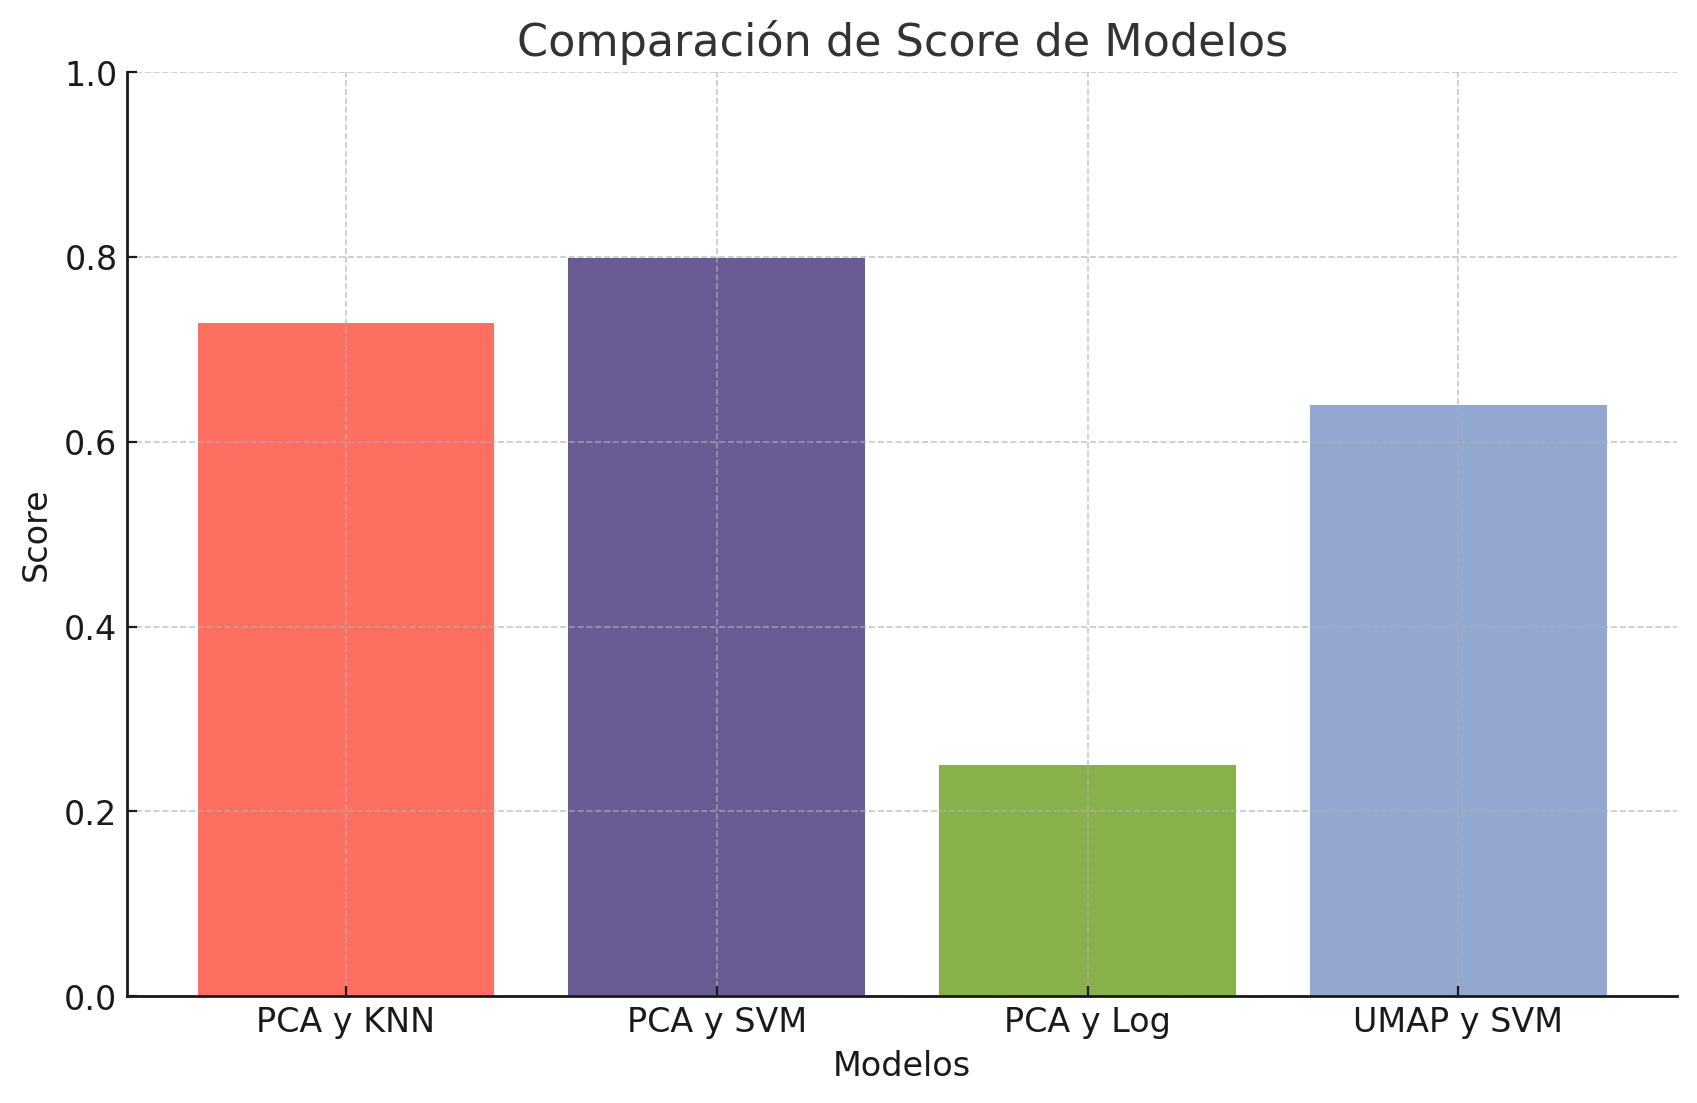
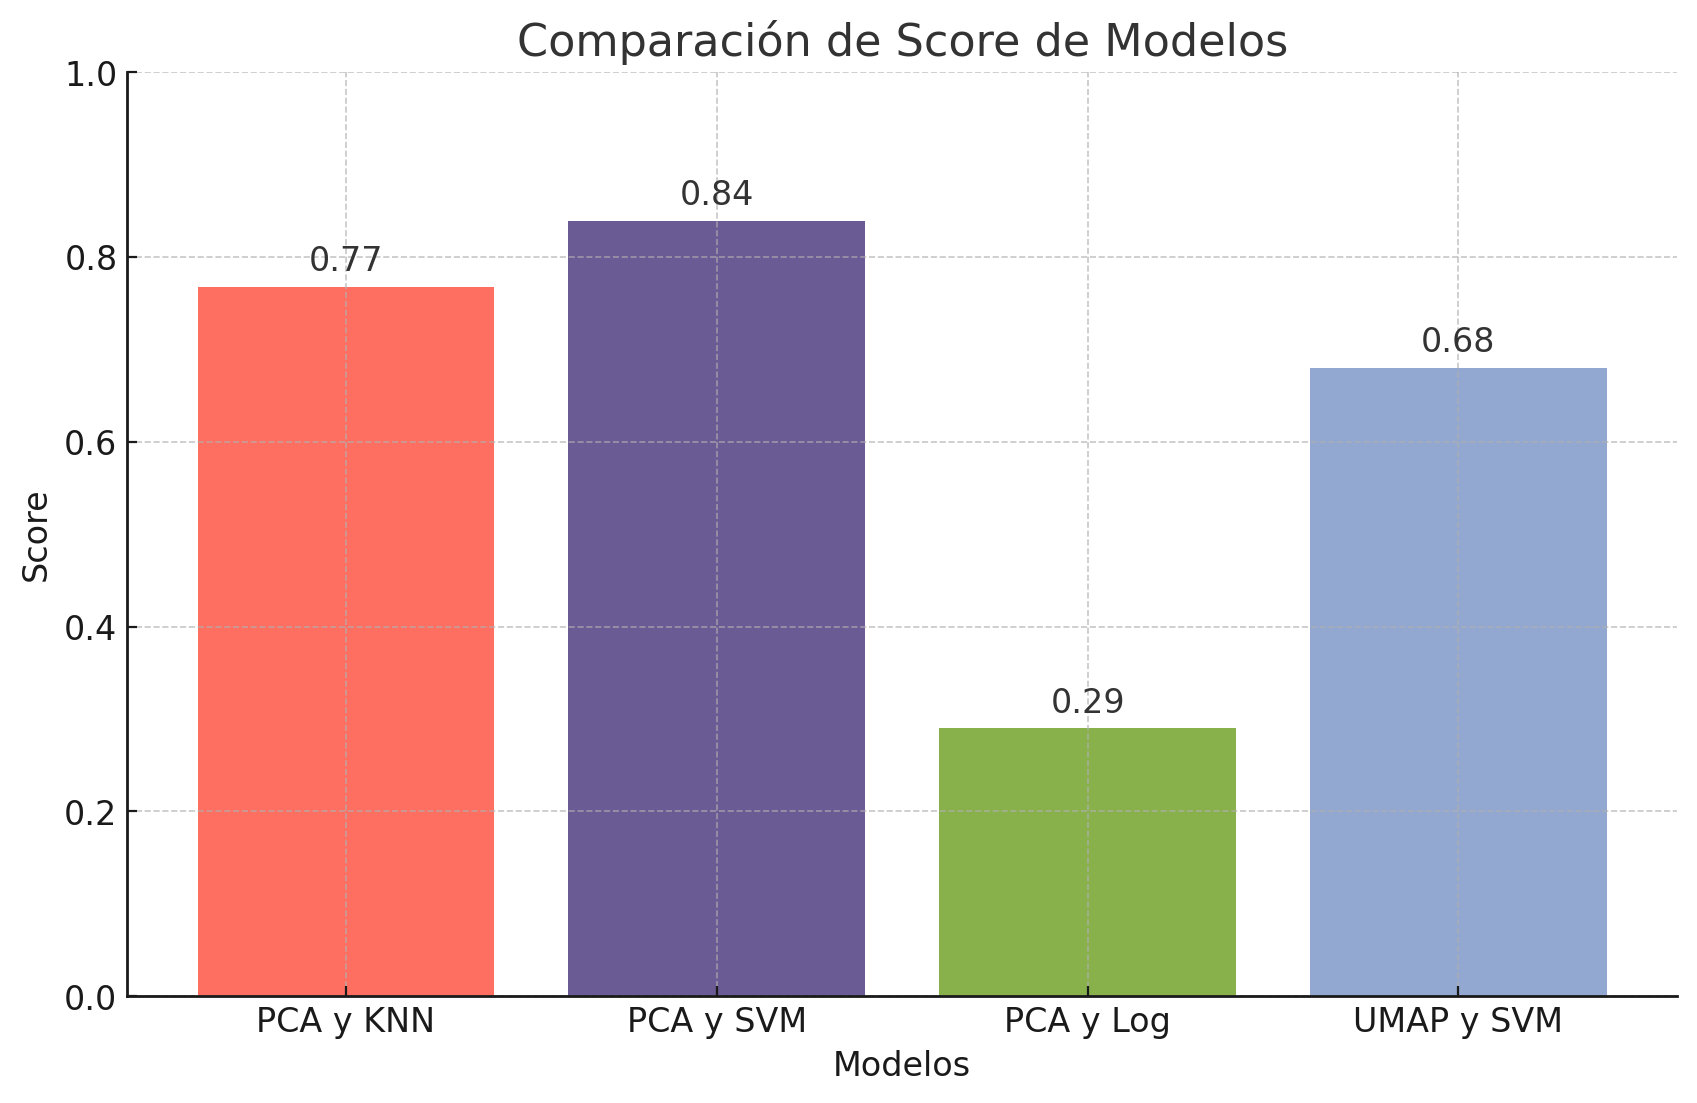
Agregar ejemplos y conclusiones

diff --git a/aprendiendo-machin/reports/avance_proyecto/avance_proyecto.tex b/aprendiendo-machin/reports/avance_proyecto/avance_proyecto.tex
@@ -288,7 +288,7 @@ Se realizó un GridSearch manual inspirado en la implementación de scikit-learn
 \end{itemize}
 \end{otherlanguage}
 
-Después de evaluar todos los resultados, la combinación de modelos con mejor resultado fue \textbf{PCA y SVM} con score de \textbf{0.80}.
+Después de evaluar todos los resultados, la combinación de modelos con mejor resultado fue \textbf{PCA y SVM} con score de \textbf{0.84}.
 
 tSNE fue excluido de la búsqueda por falta de recursos computacionales.
 
@@ -379,7 +379,7 @@ Se utilió SMOTE\cite{smote2023} para balancear el dataset. La tarea de Cross-Va
 
 \begin{figure}[H]
         \centering
-        \includegraphics[width=\linewidth]{figures/confusion_matrix_Training_wSMOTE.png}
+        \includegraphics[width=\linewidth]{figures/confusion_matrix_Training_postSMOTE.png}
         \caption{Matriz de confusión, Train dataset con SMOTE}
         \label{fig:confusion_matrix_post_smote}
 \end{figure}
@@ -388,15 +388,47 @@ El dataset Test muestra el mismo comportamiento, sin embargo no se aplicó SMOTE
 
 \begin{figure}[H]
         \centering
-        \includegraphics[width=\linewidth]{figures/confusion_matrix_Testing_wSMOTE.png}
+        \includegraphics[width=\linewidth]{figures/confusion_matrix_Testing_preSMOTE.png}
         \caption{Matriz de confusión, Test dataset}
         \label{fig:confusion_matrix_test}
+\end{figure}
+
+
+\subsubsection{Ejemplos de predicciones}
+En las siguientes figuras se muestran algunas predicciones, comparando la imagen y etiqueta original con la imagen pre-procesada y predicción final. Se escogieron algunos casos en los que la predicción fue incorrecta, se observa que la predicción, a pesar de ser errónea, predice un dígito con forma similar al correcto.
+
+\begin{figure}[H]
+        \centering
+        \includegraphics[width=\linewidth]{figures/pred_example_actual_8_pred_6.png}
+        \caption{Ejemplo predicción incorrecta}
+        \label{fig:Ejemplo1}
+\end{figure}
+
+\begin{figure}[H]
+        \centering
+        \includegraphics[width=\linewidth]{figures/pred_example_actual_7_pred_7.png}
+        \caption{Ejemplo predicción correcta}
+        \label{fig:Ejemplo2}
+\end{figure}
+
+\begin{figure}[H]
+        \centering
+        \includegraphics[width=\linewidth]{figures/pred_example_actual_0_pred_6.png}
+        \caption{Ejemplo predicción incorrecta}
+        \label{fig:Ejemplo3}
+\end{figure}
+
+\begin{figure}[H]
+        \centering
+        \includegraphics[width=\linewidth]{figures/pred_example_actual_1_pred_1.png}
+        \caption{Ejemplo predicción correcta}
+        \label{fig:Ejemplo4}
 \end{figure}
 
 \section{Conclusiones}
 
 \subsection{Preprocesamiento y Feature Engineering}
-Se propone una serie de pasos para transformar de distintas formas cada muestra del dataset. Visualmente y en varios ejemplos se observa cómo cada proceso modifica la información y podría permitir una extracción o representación más concisa del objetivo final. En los esfuerzos iniciales se consideró detección de contornos, pero esta transformación fue descartada porque impactaba negativamente el rendimiento. Se demuestra también el impacto de estos pasos de preprocesamiento, ya que el score con una simple conversión a escala de grises tiene un valor bajo (0.57 vs 0.79).
+Se propone una serie de pasos para transformar de distintas formas cada muestra del dataset. Visualmente y en varios ejemplos se observa cómo cada proceso modifica la información y podría permitir una extracción o representación más concisa del objetivo final. En los esfuerzos iniciales se consideró detección de contornos, pero esta transformación fue descartada porque impactaba negativamente el rendimiento. Se demuestra también el impacto de estos pasos de preprocesamiento, ya que el score con una simple conversión a escala de grises tiene un valor bajo (0.61 vs 0.84).
 
 \subsection{Reducción de dimensionalidad}
 Siguiendo el ejemplo con datasets como MNIST, se experimentó con modelos no supervisados que ayudan a reducir las dimensiones (PCA, UMAP, tSNE). A pesar de ser un problema similar para reconocimiento de dígitos, el dataset SVHN representa complicaciones por su variedad de colores, dígitos o elementos distractores además de inconsistencia entre el color o luminosidad del fondo y dígito.
@@ -413,14 +445,24 @@ La ventaja de PCA en este caso puede sugerir que existe una relación lineal ent
 Los rangos limitados de exploración se deben a una falta de recursos computacionales, se encontraron problemas con UMAP en dimensiones muy altas y tSNE en particular.
 
 \subsection{Entrenamiento, evaluación y métricas de desempeño}
-Se logra observar un score aceptable, \textbf{0.96} en training y \textbf{0.79} en testing. Esto sugiere que el modelo no está realizando overfitting total ni simplemente memorizando el dataset de entrenamiento, por lo que logra generalizar la relación entre los valores de los pixeles en la imagen y el dígito que se encuentra en el centro. Se reconoce que existen modelos más adecuados para reconocimiento de imagen con mucho mejor rendimiento, por ejemplo, redes neuronales. Sin embargo, estos modelos se encuentran fuera del enfoque de la clase, ya que se consideran de aprendizaje profundo.
+Se logra observar un score aceptable, \textbf{0.98} en training y \textbf{0.83} en testing. Esto sugiere que el modelo no está realizando overfitting total ni simplemente memorizando el dataset de entrenamiento, por lo que logra generalizar la relación entre los valores de los pixeles en la imagen y el dígito que se encuentra en el centro. Se reconoce que existen modelos más adecuados para reconocimiento de imagen con mucho mejor rendimiento, por ejemplo, redes neuronales. Sin embargo, estos modelos se encuentran fuera del enfoque de la clase, ya que se consideran de aprendizaje profundo.
 
 \subsection{Matriz de confusión y balanceo de dataset}
-Con los resultados iniciales de CrossValidation se logró observar un desbalanceo en el dataset de entrenamiento, específicamente en el dígito 1. Inicialmente se contaban con scores de \textbf{0.97} y \textbf{0.80} en training y testing respectivamente.
+Con los resultados iniciales de CrossValidation se logró observar un desbalanceo en el dataset de entrenamiento, específicamente en el dígito 1. Inicialmente se contaban con scores de \textbf{0.98} y \textbf{0.84} en training y testing respectivamente.
 
 Se aplicó SMOTE al dataset de entrenamiento para balancear el número de muestras y la distribución en las diferentes etiquetas, esto para buscar entrenar el modelo con un dataset más representativo y que sea capaz de generalizar para múltiples etiquetas, no solo la que se encuentre más representada.
 
-Los valores de score después de SMOTE bajaron a \textbf{0.96} y \textbf{0.79} en training y testing respectivamente. Esto indica un muy ligero impacto que aún mantiene valores aceptables, indicando que el modelo, con el preprocesamiento e hiperparámetros elegidos, es capaz de generalizar las relaciones entre los pixeles y el dígito encontrado al centro de la imagen.
+Los valores de score después de SMOTE bajaron a \textbf{0.98} y \textbf{0.83} en training y testing respectivamente. Esto indica un muy ligero impacto que aún mantiene valores aceptables, indicando que el modelo, con el preprocesamiento e hiperparámetros elegidos, es capaz de generalizar las relaciones entre los pixeles y el dígito encontrado al centro de la imagen.
+
+\subsection{Ejemplos de predicciones}
+Basándose en las imágenes de predicciones erróneas, podría existir una falta de optimización en la etapa de procesamiento que cause pérdida de información importante. Se observa un caso con el número cero donde esta etapa es incapaz de mantener el contraste y la forma del dígito, lo cual puede afectar el rendimiento y entrenamiento del modelo predictivo.
+
+En los limitados casos erróneos mostrados se observa que la etiqueta incorrecta cuenta con una forma similar al dígito de la etiqueta correcta, por ejemplo, un 8 y un 6. Esto puede sugerir que el modelo predictivo logra encontrar relación en la forma de ciertos grupos de pixeles.
+
+\subsection{Trabajo futuro}
+Por falta de recursos de cómputo la búsqueda de hiperparámetros no fue la más extensa, esto aplica tanto en modelos predictivos y el preprocesamiento. Se reconoce como área de oportunidad una exhaustiva exploración de parámetros y combinaciones para encontrar valores óptimos además de modificar los pasos de preprocesamiento por algo más eficiente.
+
+El rendimiento de este modelo predictivo es pobre comparado con modelos más modernos, donde en su mayoría se observa la utilización de redes neuronales\cite{paperswithcode_svhn}. Se propone experimentar con modelos de aprendizaje profundo que podrían tener un rendimiento significativamente mejor a lo presentado en este trabajo.
 
 % if have a single appendix:
 %\appendix[Proof of the Zonklar Equations]
